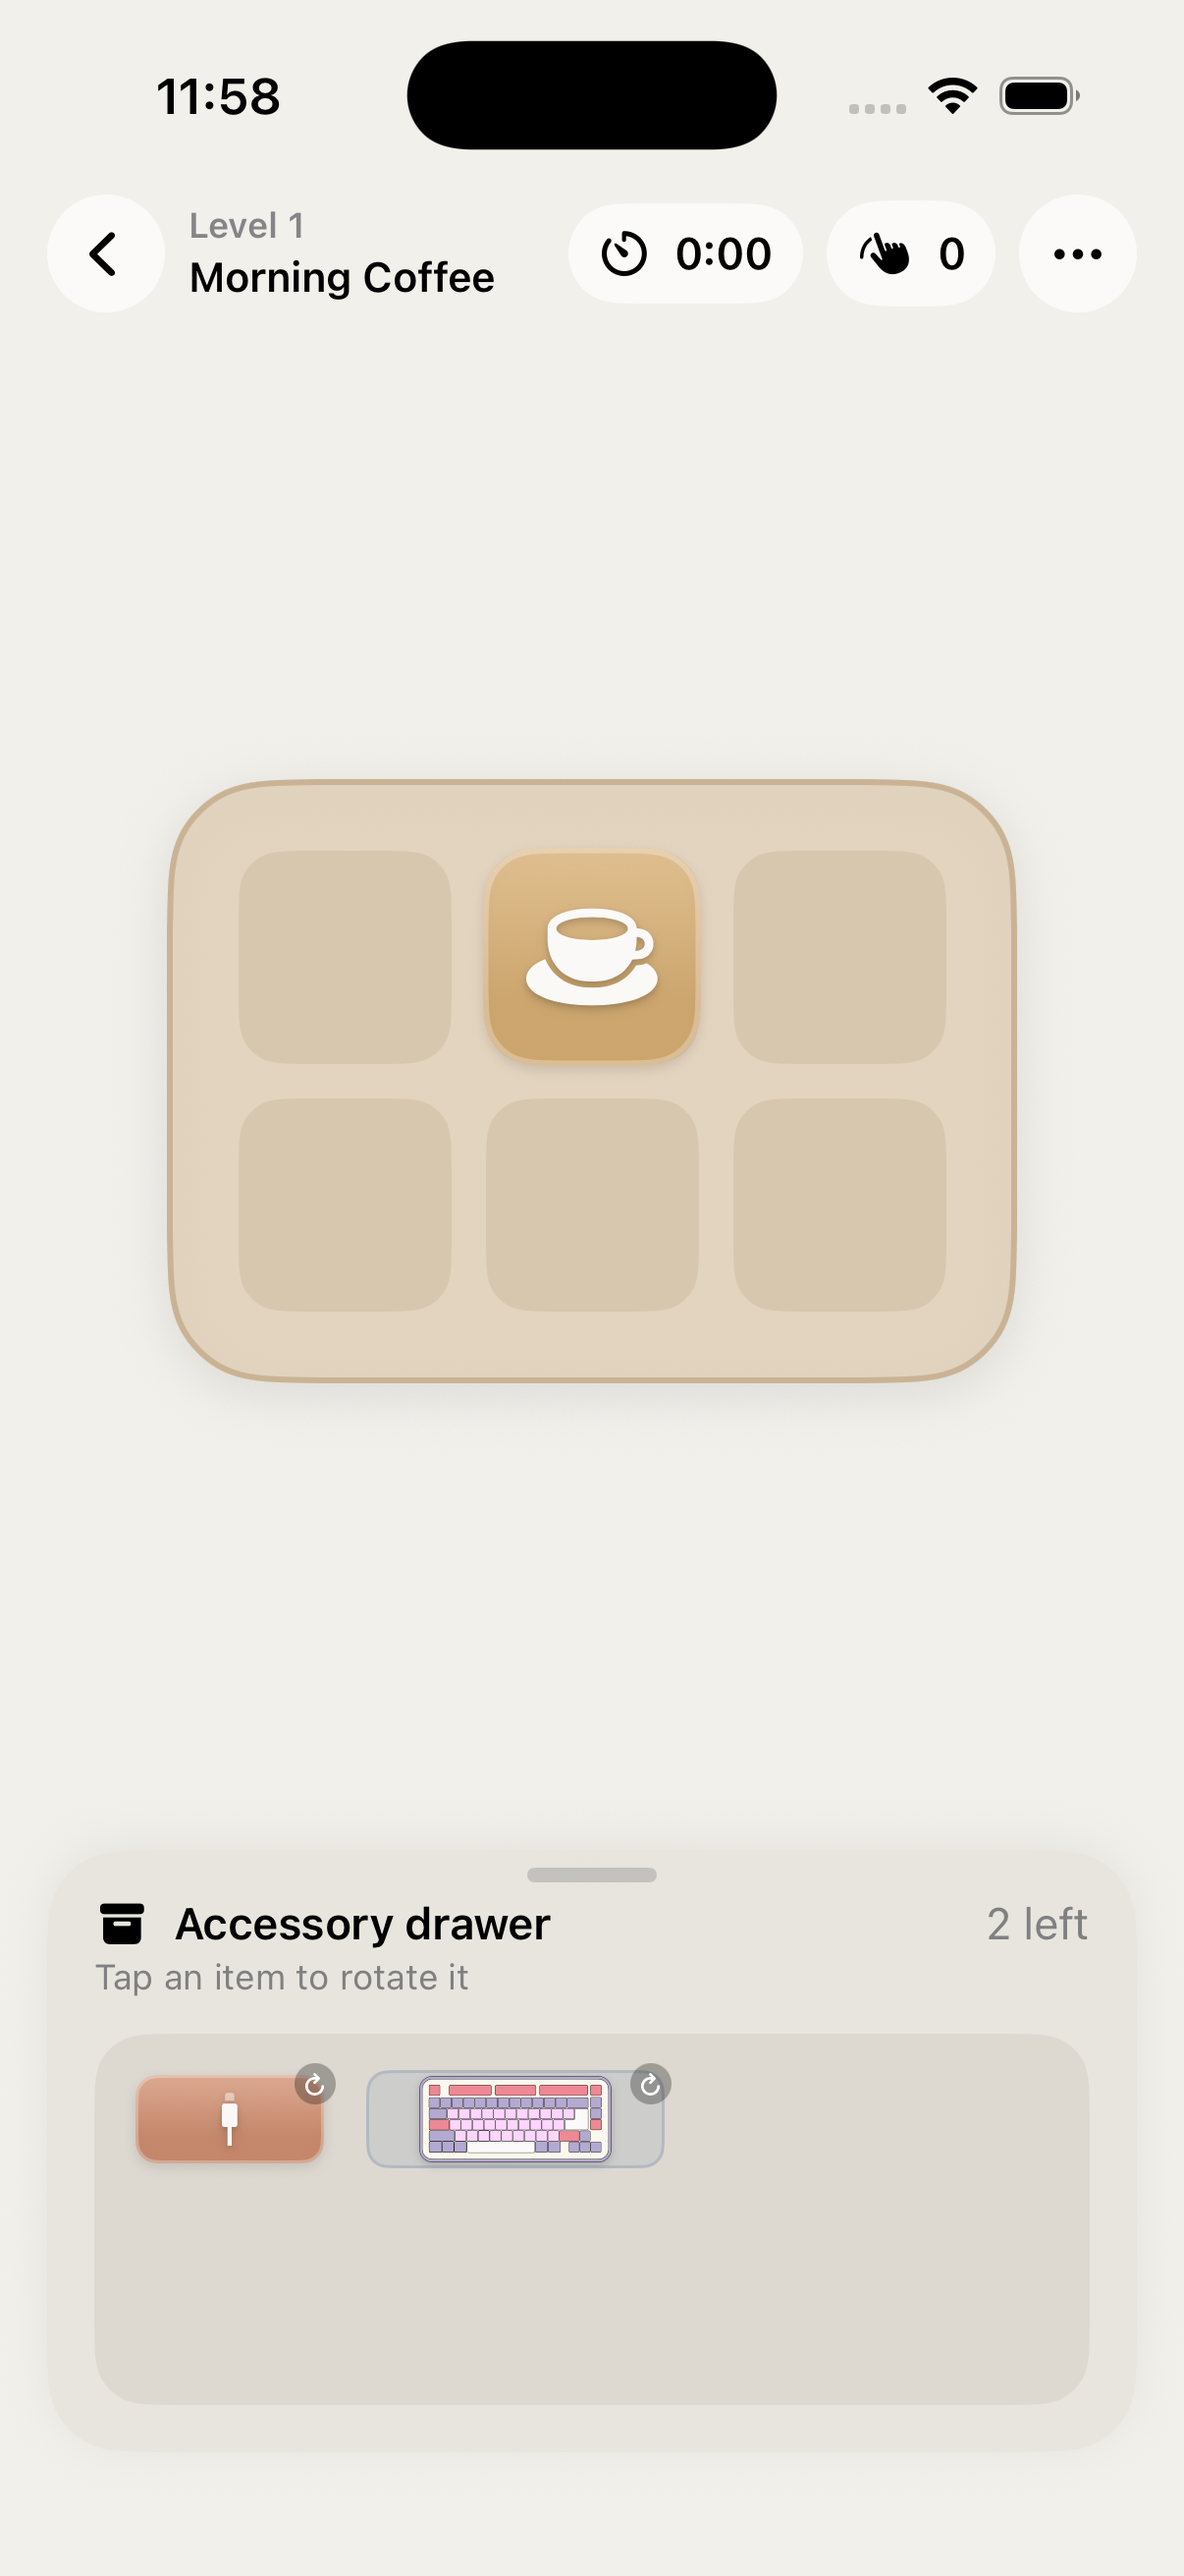
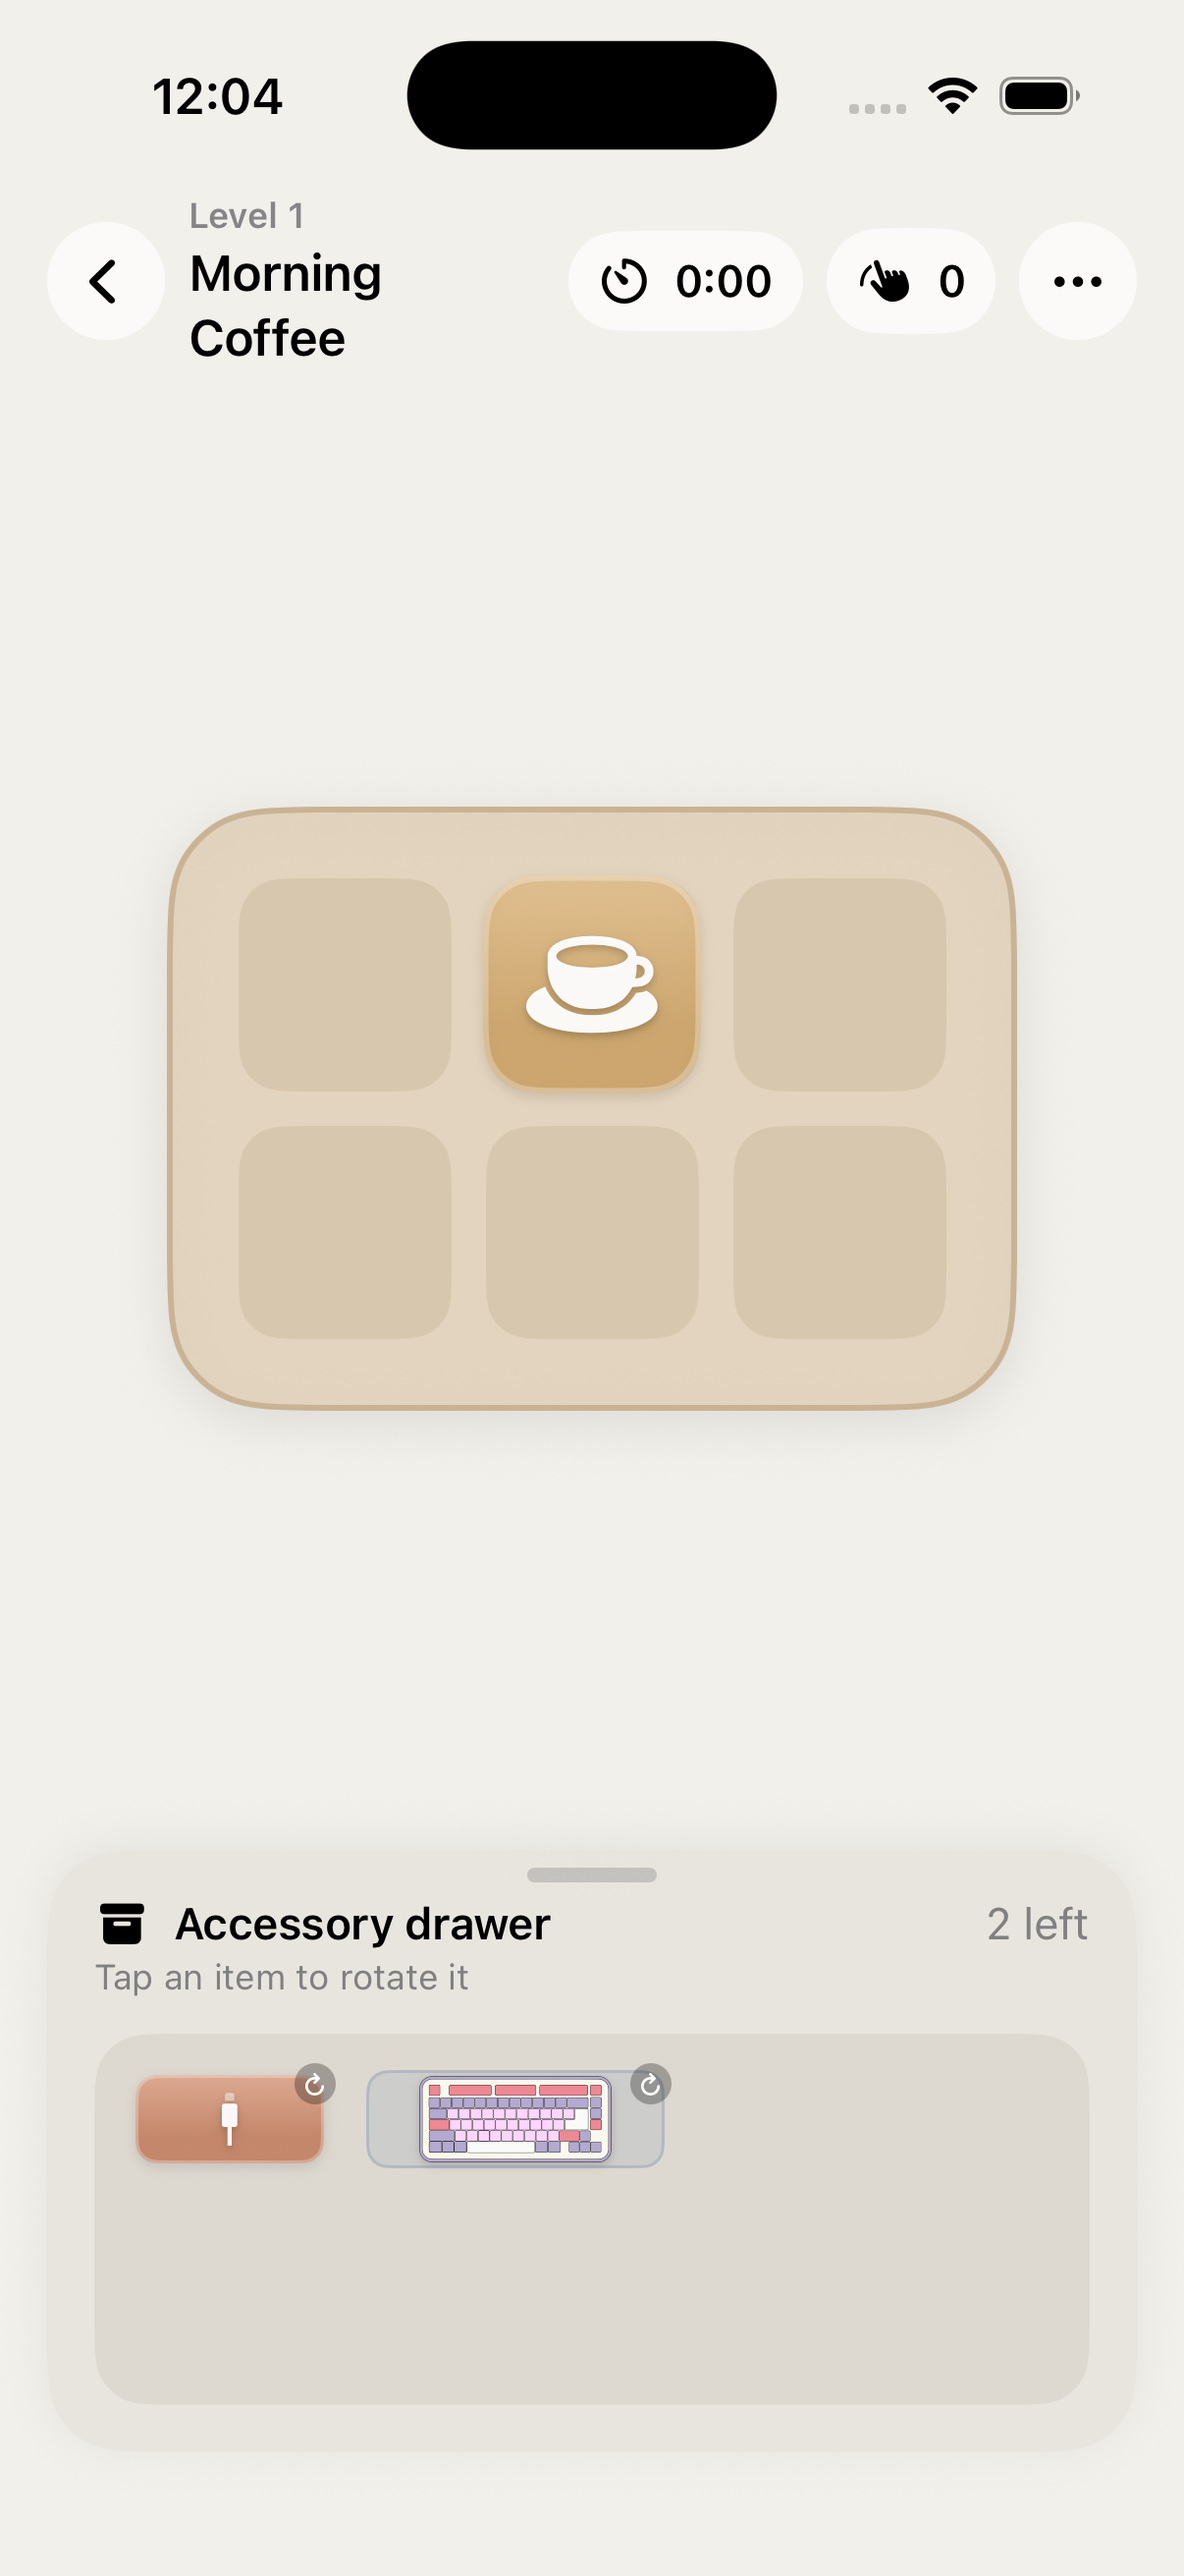
Header: wrap long level names to two lines; render art contact sheets at 1x
- DeskGameplayView: level name lineLimit 2 with layout priority, clock and
  moves pills fixedSize ("Streamer Corner" / "Gaming Battlestation" no
  longer truncate).
- ArtPreviewTests: contact sheets at 1x (per-item previews stay 2x) to keep
  committed screenshots small (~10.6 MB -> ~6.3 MB for screenshots/art).
- Rebuilt: 62/63 pass, 1 skipped; screenshots refreshed. Notes updated.

diff --git a/TidyDeskTests/ArtPreviewTests.swift b/TidyDeskTests/ArtPreviewTests.swift
@@ -32,7 +32,7 @@ final class ArtPreviewTests: XCTestCase {
         }
         for scheme in [ColorScheme.light, .dark] {
             // Two columns: a single column of every item is ~9500 px tall at 2x, past the renderer's
-            // texture limit (~8192 px), and comes out blank.
+            // texture limit (~8192 px), and comes out blank. Two columns also keep the sheet compact.
             let half = (items.count + 1) / 2
             let columns = [Array(items[..<half]), Array(items[half...])]
             let sheet = HStack(alignment: .top, spacing: 24) {
@@ -45,7 +45,9 @@ final class ArtPreviewTests: XCTestCase {
             .padding(16)
             .background(Theme.background)
             .environment(\.colorScheme, scheme)
-            try write(sheet, to: outDir.appendingPathComponent(scheme == .light ? "_all_light.png" : "_all_dark.png"))
+            // Contact sheets at 1x: they are for an overview (the per-item files stay 2x for detail)
+            // and are committed on every Mac build, so keep them small.
+            try write(sheet, to: outDir.appendingPathComponent(scheme == .light ? "_all_light.png" : "_all_dark.png"), scale: 1)
         }
         print("ArtPreviewTests: wrote \(items.count) previews to \(outDir.path)")
     }
@@ -99,9 +101,9 @@ final class ArtPreviewTests: XCTestCase {
         .background(Theme.desk, in: RoundedRectangle(cornerRadius: 10))
     }
 
-    private func write(_ view: some View, to url: URL) throws {
+    private func write(_ view: some View, to url: URL, scale: CGFloat = 2) throws {
         let renderer = ImageRenderer(content: view)
-        renderer.scale = 2
+        renderer.scale = scale
         let image = try XCTUnwrap(renderer.uiImage, "ImageRenderer returned nil for \(url.lastPathComponent)")
         try XCTUnwrap(image.pngData()).write(to: url)
     }

diff --git a/TidyDesk/Features/Desk/DeskGameplayView.swift b/TidyDesk/Features/Desk/DeskGameplayView.swift
@@ -110,11 +110,15 @@ struct DeskGameplayView: View {
                 Text("Level \(levelManager.displayNumber(of: vm.level.levelId))")
                     .font(.caption.weight(.semibold))
                     .foregroundStyle(.secondary)
+                // Long names ("Streamer Corner", "Gaming Battlestation") wrap to a second line
+                // instead of truncating next to the clock / moves / menu pills.
                 Text(vm.level.levelName)
                     .font(.headline)
-                    .lineLimit(1)
-                    .minimumScaleFactor(0.8)
+                    .lineLimit(2)
+                    .minimumScaleFactor(0.85)
+                    .fixedSize(horizontal: false, vertical: true)
             }
+            .layoutPriority(1)
 
             Spacer()
 
@@ -125,6 +129,7 @@ struct DeskGameplayView: View {
                     .padding(.horizontal, 10)
                     .padding(.vertical, 8)
                     .background(Capsule().fill(Theme.card))
+                    .fixedSize()  // never squeezed by the (higher-priority) title
             }
             .accessibilityLabel(Text("Time"))
 
@@ -135,6 +140,7 @@ struct DeskGameplayView: View {
                 .padding(.horizontal, 10)
                 .padding(.vertical, 8)
                 .background(Capsule().fill(Theme.card))
+                .fixedSize()
                 .accessibilityLabel(Text("\(vm.moves) moves"))
 
             Menu {

diff --git a/PROJECT_NOTES.md b/PROJECT_NOTES.md
@@ -49,10 +49,11 @@ Số nước = số lần đặt thành công (đặt món mới, hoặc dời m
 - **Dữ liệu:** `check_levels.py` 8/8 OK. `check_assets.py`: 2/27 hình; `keyboard_compact` WARN (tỉ lệ 2.21:1 so với ô 3:1, hình chỉ phủ ~74% chiều ngang), `mouse_wireless` WARN (0.68:1 so với 1:1, ~68%).
 - **File phải sửa:** chỉ `TidyDeskTests/ArtPreviewTests.swift`:
   1. Lỗi biên dịch "implicit use of 'self' in closure" ở `ForEach(...) { previewRow($0) }` → đổi thành `self.previewRow($0)`.
-  2. Tấm tổng hợp `_all_light/_all_dark.png` một cột cao ~9560 px ở 2x, vượt giới hạn texture (~8192 px) nên `ImageRenderer` ra ảnh **trắng**, `pngData()` lỗi zlib → test fail. Chia tấm thành **2 cột** (3768×5316 px). Ảnh từng món không đổi.
+  2. (Sau đó) tấm tổng hợp render ở **1x** (ảnh từng món vẫn 2x) để `screenshots/` nhẹ hơn: `art/` từ ~10.6 MB xuống ~6.3 MB.
+  3. Tấm tổng hợp `_all_light/_all_dark.png` một cột cao ~9560 px ở 2x, vượt giới hạn texture (~8192 px) nên `ImageRenderer` ra ảnh **trắng**, `pngData()` lỗi zlib → test fail. Chia tấm thành **2 cột** (3768×5316 px). Ảnh từng món không đổi.
 - **Ảnh từng hình (`screenshots/art/`):** 27 file + 2 tấm tổng hợp, sáng/tối khác nhau đúng. Hai hình thật rõ nét, không nhòe, không méo; bóng đổ khi nhấc (1.08×) và xoay 90° đúng. Nhưng cả hai **nhỏ trong ô** đúng như WARN: bàn phím chừa trống hai bên, chuột chỉ ~2/3 ô. Nên vẽ lại đúng tỉ lệ ô (384×128, 128×128) như `ASSETS.md`. Món dùng hình thật có nền "dấu chân" xám nhạt, khác hẳn kiểu ô màu của các món SF Symbol. Khi chỉ có 2/27 hình thật thì nhìn hơi lệch tông, nhưng sẽ ổn khi đủ hình.
 - **Ảnh app (`screenshots/app/`):** `menu_light`, `level1_light` (có `keyboard_compact` trong ngăn kéo), `level5_light`, `level5_dark` (có `mouse_wireless`). `-openLevel` chạy đúng. Nhận xét:
-  - Header màn 5 bị cắt tên ("Streamer Cor…") vì đồng hồ + số nước + menu chiếm chỗ. Có thể cho tên xuống dòng / thu nhỏ chữ.
+  - ~~Header cắt tên màn ("Streamer Cor…")~~ → **đã sửa** (`DeskGameplayView`): tên màn tối đa 2 dòng, ưu tiên chỗ (`layoutPriority`), pill đồng hồ / số nước `fixedSize`. Đã kiểm tra màn 5 "Streamer Corner" và màn 8 "Gaming Battlestation": hiện đủ 2 dòng.
   - Trong ngăn kéo, hình thật (bàn phím, chuột) nhỏ hơn hẳn các ô màu bên cạnh, vì ô ngăn kéo nhỏ cộng với hình chưa phủ hết ô.
   - Ảnh menu: simulator đang có tiến độ (qua màn 1–2) nên menu tự cuộn tới màn 3; phần đầu (tiêu đề, ô tổng kết) nằm dưới thanh trạng thái. Đúng thiết kế "cuộn tới màn đang chơi", không phải lỗi.
   - Chế độ tối: huy hiệu xoay ↻ trên ô màu hơi chìm nhưng vẫn đọc được.
@@ -71,6 +72,7 @@ xcodebuild -exportArchive -archivePath <tmp>/TidyDesk.xcarchive -exportOptionsPl
 - Icon hiện là icon tạm do `tools/generate_icon.py` vẽ (1024×1024, không alpha). Thay icon thật: ghi đè `Assets.xcassets/AppIcon.appiconset/AppIcon.png`.
 
 ## Lịch sử
+- 2026-11-11 (Header + ảnh nhẹ hơn): tên màn trong header xuống tối đa 2 dòng thay vì bị cắt; pill đồng hồ / số nước không bị bóp. Tấm tổng hợp ảnh hình render 1x. Build + 62/63 pass + 1 skip; chụp lại `screenshots/app/`.
 - 2026-11-11 (Build Mac `f5a9d2c`): build OK, 62/63 pass + 1 skip. Sửa `ArtPreviewTests` (thiếu `self.` trong closure; tấm tổng hợp chia 2 cột vì 1 cột vượt giới hạn texture → ảnh trắng). Commit ảnh `screenshots/art/` + `screenshots/app/` theo `MAC_BUILD.md`.
 - 2026-11-11 (Quy trình Mac, **chưa build**): thêm `MAC_BUILD.md` (build → test → `check_levels`/`check_assets` → ảnh từng hình → ảnh chụp app → ghi chép → push). Thêm `ArtPreviewTests` (mặc định skip; chạy với `TEST_RUNNER_TIDY_SNAPSHOTS=1`, dùng `ImageRenderer` vẽ `ItemTileView` của mọi món ở 3 trạng thái nằm yên / nhấc / xoay, trên nền gỗ sáng và tối, xuất ra `screenshots/art/`). Thêm cờ chỉ có ở bản Debug `-openLevel <id>` ở `LevelSelectView` để `simctl` mở thẳng một màn khi chụp `screenshots/app/`.
 - 2026-11-11 (Hình thứ hai): nhập `mouse_wireless.svg` (Recraft, tỉ lệ 0.68:1 trong ô 1×1, chấp nhận được với chuột; có thể thay bằng mẫu khác). `check_assets.py --import` nhận cả file có đuôi lặp `.svg.svg` (Windows ẩn đuôi file) và luôn lưu file trong imageset theo đúng tên asset.
